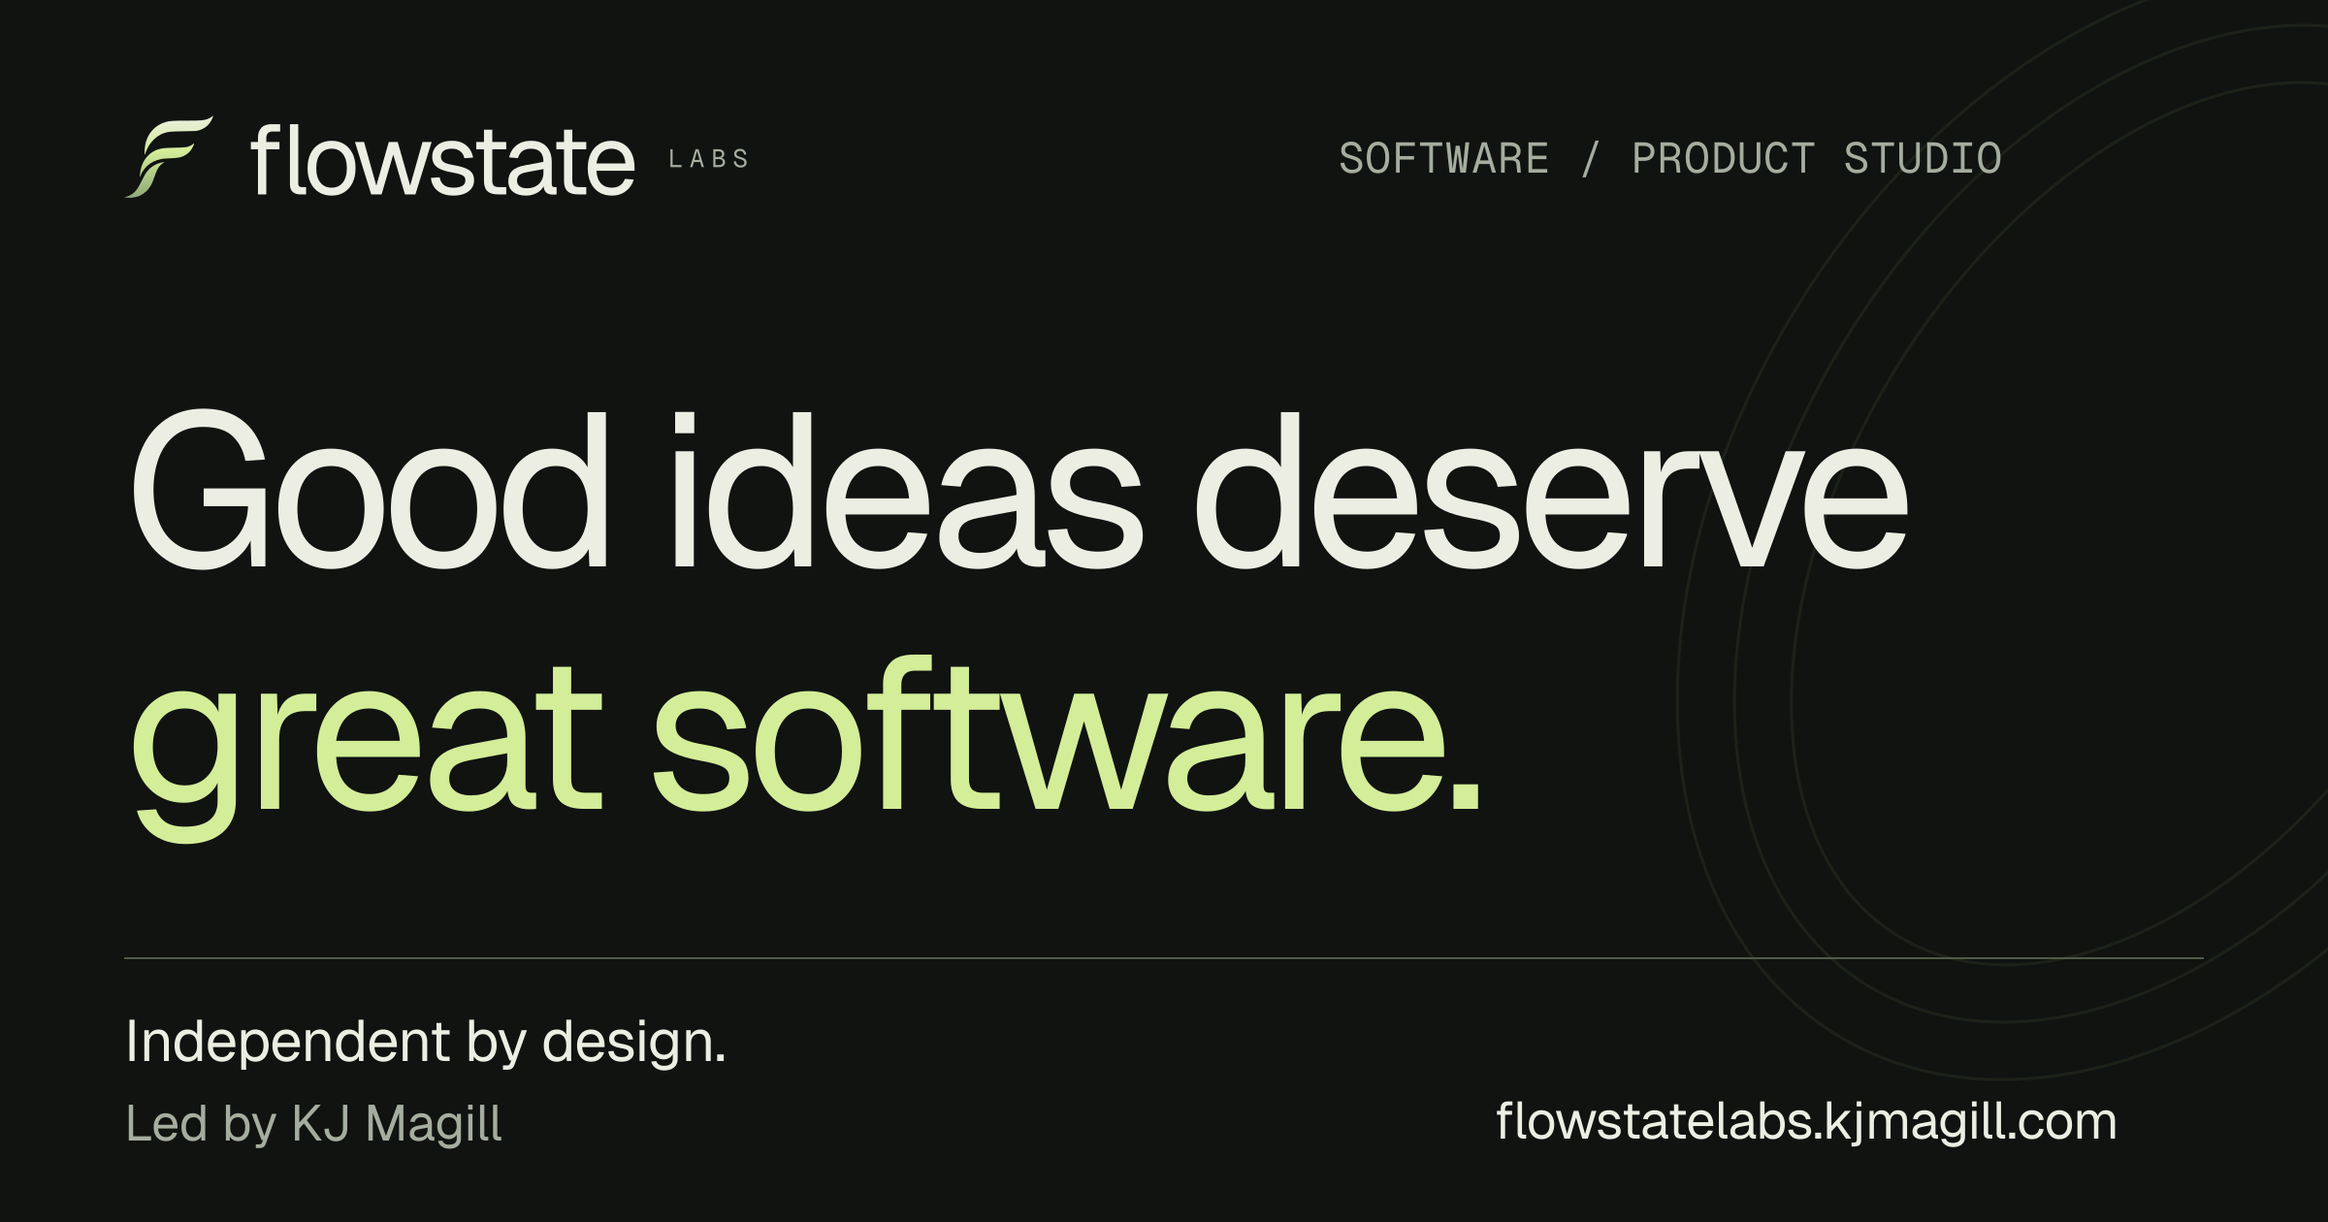
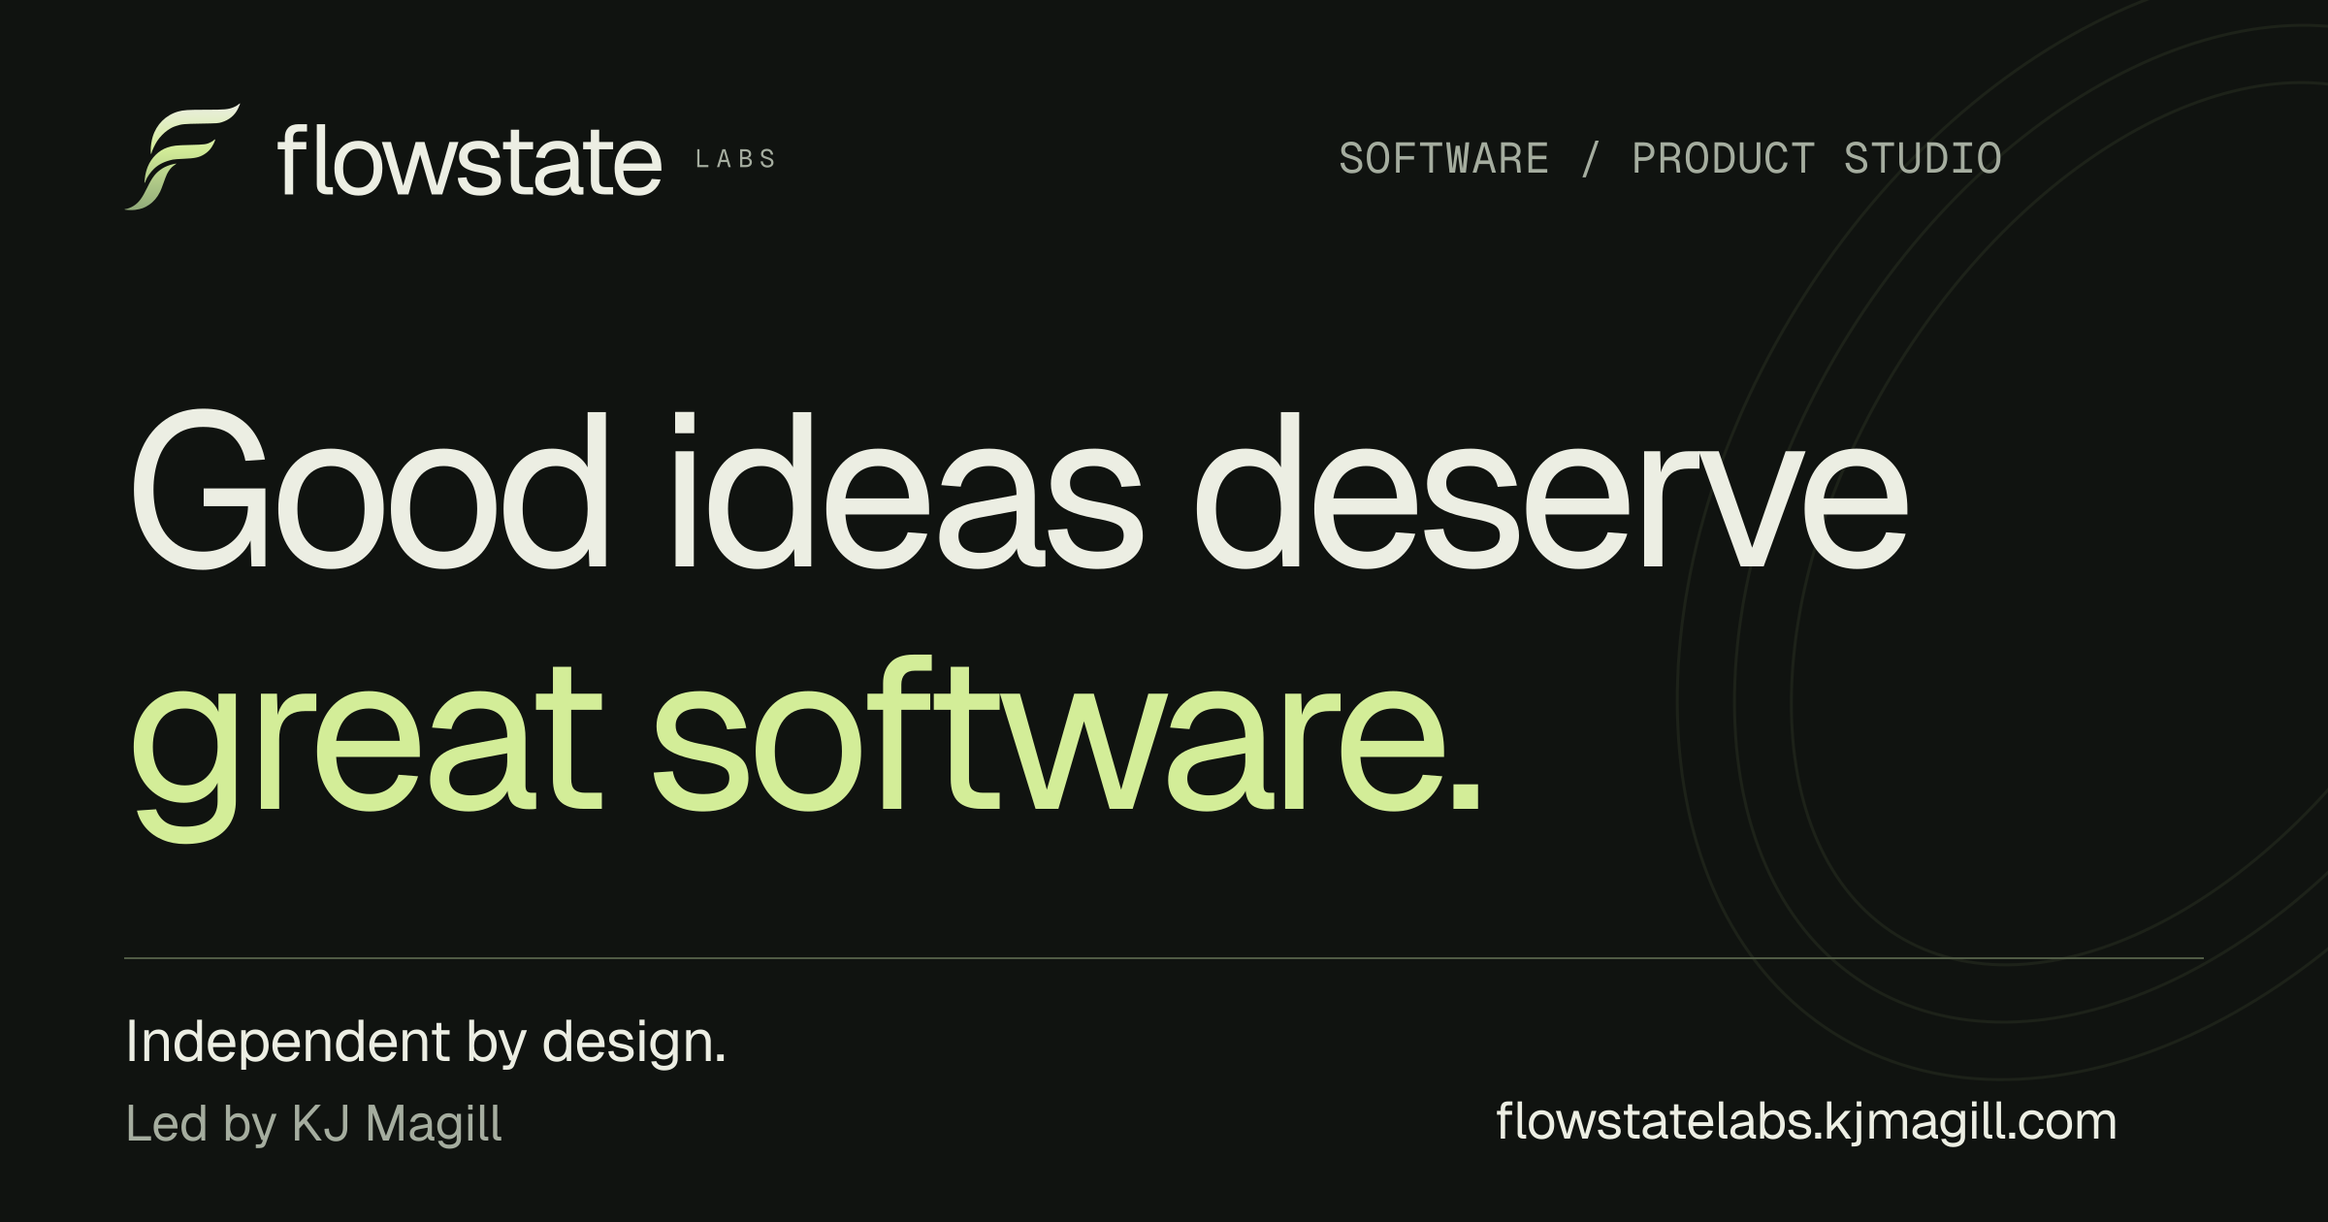
Refine studio readability, responsive layout, copy and branding

Changed region(s): [[0.0625, 0.0929, 0.3438, 0.1857]]

diff --git a/src/app/flowstate/page.tsx b/src/app/flowstate/page.tsx
@@ -21,9 +21,9 @@ export const metadata: Metadata = {
   keywords: ["Flowstate Labs", "custom software development", "product design studio", "web application development", "mobile app development", "New Jersey software studio", "KJ Magill"],
   alternates: { canonical: `${url}/` },
   robots: { index: true, follow: true, googleBot: { index: true, follow: true, "max-image-preview": "large", "max-snippet": -1, "max-video-preview": -1 } },
-  openGraph: { title, description, url: `${url}/`, siteName: "Flowstate Labs", locale: "en_US", type: "website", images: [{ url: `${url}/flowstate/og-flowstate-v6.jpg`, width: 1200, height: 630, type: "image/jpeg", alt: imageAlt }] },
-  twitter: { card: "summary_large_image", creator: "@kjmagill", title, description, images: [{ url: `${url}/flowstate/social-flowstate-v6.jpg`, width: 1200, height: 600, alt: imageAlt }] },
-  icons: { icon: [{ url: "/flowstate/mark-v6.svg", type: "image/svg+xml" }], apple: [{ url: "/flowstate/apple-icon-v6.png", sizes: "180x180" }] },
+  openGraph: { title, description, url: `${url}/`, siteName: "Flowstate Labs", locale: "en_US", type: "website", images: [{ url: `${url}/flowstate/og-flowstate-v7.jpg`, width: 1200, height: 630, type: "image/jpeg", alt: imageAlt }] },
+  twitter: { card: "summary_large_image", creator: "@kjmagill", title, description, images: [{ url: `${url}/flowstate/social-flowstate-v7.jpg`, width: 1200, height: 600, alt: imageAlt }] },
+  icons: { icon: [{ url: "/flowstate/mark-v7.svg", type: "image/svg+xml" }, { url: "/flowstate/favicon-48-v7.png", sizes: "48x48", type: "image/png" }], apple: [{ url: "/flowstate/apple-icon-v7.png", sizes: "180x180" }] },
   manifest: "/flowstate/site.webmanifest",
 };
 export const viewport: Viewport = { themeColor: "#101310", colorScheme: "dark" };
@@ -39,7 +39,7 @@ export default function FlowstatePage() {
       <section className={styles.hero} aria-labelledby="flow-title">
         <div className={styles.heroIntro}><p className={styles.eyebrow}><span className={styles.statusDot} />Independent software &amp; product studio</p>
           <h1 id="flow-title">Good ideas deserve<br /><em>great software.</em></h1>
-          <p className={styles.heroCopy}>Good software starts with a clear head.<br className={styles.desktopBreak} /> We turn complex ideas into thoughtful digital products, with the focus to get the details right.</p>
+          <p className={styles.heroCopy}>From first sketch to launch, we bring product strategy, design, and engineering together to turn your ideas into useful digital products.</p>
           <a className={styles.primaryLink} href="#connect">Bring us your idea <ArrowUpRight size={18} aria-hidden="true" /></a>
         </div>
         <FlowField />
@@ -83,8 +83,8 @@ export default function FlowstatePage() {
           {[{ n: "01", title: "Get to the heart of it.", text: "We start with the problem, the people, and the business behind the idea. Together, we define what success looks like and choose a focused first step." }, { n: "02", title: "Make the idea tangible.", text: "Flows and prototypes bring the important decisions into view early. We test the direction together before committing to the full build." }, { n: "03", title: "Build. Refine. Release.", text: "Working software arrives in focused iterations. We make room for feedback, take care of the details, and prepare for a confident launch." }, { n: "04", title: "Follow what you learn.", text: "Launch gives us real feedback. We use it to guide improvements, document the decisions, and make the next phase easier to build." }].map((step, i) => <details key={step.n} name="flow-process" open={i === 0}><summary><span>{step.n}</span><h3>{step.title}</h3><Plus size={20} aria-hidden="true" /></summary><p>{step.text}</p></details>)}
         </div>
       </section>
-      <section id="connect" tabIndex={-1} className={styles.connect} aria-labelledby="connect-title"><div className={styles.connectOrb} aria-hidden="true" /><p className={styles.eyebrow}>Every good thing starts somewhere.</p><h2 id="connect-title">An idea on your mind?<br />Let’s find its <em>flow.</em></h2><p>A rough sketch, a stubborn problem, or a product ready for its next chapter. Bring it into the conversation.</p><a className={styles.primaryLink} href="https://kjmagill.com/contact">Start a conversation <ArrowUpRight size={19} aria-hidden="true" /></a><a className={styles.emailLink} href="mailto:kjmagill@protonmail.com?subject=Flowstate%20Labs%20project">Or send KJ an email <ArrowRight size={14} aria-hidden="true" /></a></section>
+      <section id="connect" tabIndex={-1} className={styles.connect} aria-labelledby="connect-title"><div className={styles.connectOrb} aria-hidden="true" /><p className={styles.eyebrow}>Every good thing starts somewhere.</p><h2 id="connect-title">Have something in mind?<br />Let’s <em>build it together.</em></h2><p>A rough sketch, a stubborn problem, or a product ready for its next chapter. Bring it into the conversation.</p><a className={styles.primaryLink} href="https://kjmagill.com/contact">Start a conversation <ArrowUpRight size={19} aria-hidden="true" /></a><a className={styles.emailLink} href="mailto:kjmagill@protonmail.com?subject=Flowstate%20Labs%20project">Or send KJ an email <ArrowRight size={14} aria-hidden="true" /></a></section>
     </main>
-    <footer className={styles.footer}><a href="#top" className={styles.brand} aria-label="Flowstate Labs, back to top"><FlowLogo /></a><p>Independent by design.<br /><span>New Jersey. Open to everywhere.</span></p><div><a href="https://kjmagill.com">KJ Magill <ArrowUpRight size={14} aria-hidden="true" /></a><span>© {new Date().getFullYear()} Flowstate Labs</span></div></footer>
+    <footer className={styles.footer}><a href="#top" className={styles.brand} aria-label="Flowstate Labs, back to top"><FlowLogo /></a><p>Independent by design.<br /><span>Based in New Jersey.<br />Working with clients worldwide.</span></p><div><a href="https://kjmagill.com">KJ Magill <ArrowUpRight size={14} aria-hidden="true" /></a><span>© {new Date().getFullYear()} Flowstate Labs</span></div></footer>
   </div></MotionProvider>;
 }

diff --git a/src/app/flowstate/flowstate.module.css b/src/app/flowstate/flowstate.module.css
@@ -74,3 +74,103 @@
 @media print{.projectCard{break-inside:avoid;border:1px solid #555}.projectIllustration{display:none}.projectCard h3{min-height:0;margin-bottom:16px}}
 
 @media(max-width:359px){.header .brand svg{width:160px;height:auto}.header .navContact{font-size:11px;gap:6px}}
+
+/* Readability and responsive rhythm. Content never waits for scroll reveals. */
+.brand>svg,.header .brand svg{width:185px;height:34px}
+.studio h1,.studio h2,.services h3{text-wrap:balance}
+.header nav{font-size:15px}
+.eyebrow,.hero .eyebrow,.connect .eyebrow{font-size:12px;letter-spacing:.075em}
+.sectionMeta>span:last-child,.serviceIndex,.processNote,.processSteps summary>span{font-size:12px;color:var(--muted)}
+.serviceTags,.projectMeta{font-size:12px;letter-spacing:.025em}
+.heroFoot{font-size:12px;gap:24px}
+.fieldCaption{font-size:11px;letter-spacing:.025em;color:var(--muted);left:20%;right:12%;bottom:46px}
+.fieldCaption button{font:inherit;font-size:12px;gap:8px}
+.heroCopy{font-size:18px;line-height:1.75;max-width:39ch}
+.primaryLink,.quietLink,.projectAction{font-size:16px}
+.services p,.processIntro,.processSteps details>p,.projectCard>p{font-size:16px;line-height:1.8}
+.services h3{line-height:1.25;min-height:2.5em}
+.projectCard h3{margin-bottom:24px;min-height:2.3em}
+.projectMeta{align-items:flex-start}
+.processSteps summary{min-height:80px}
+.processSteps summary:hover h3{color:var(--accent)}
+.connect>p:not(.eyebrow){max-width:46ch;font-size:17px}
+.emailLink{font-size:15px}
+.footer{gap:32px;align-items:flex-start}
+.footer>p,.footer>div>a{font-size:14px}
+.footer>div{font-size:12px}
+.footer>p>span,.footer>div{color:var(--muted)}
+.primaryLink:hover{transform:none}
+@media(hover:hover) and (prefers-reduced-motion:no-preference){
+  .primaryLink,.quietLink,.emailLink{transition:color .15s,background-color .15s}
+  .projectCard{transition:border-color .15s,background-color .15s}
+}
+@media(min-width:900px) and (max-width:1199px){
+  .hero h1{font-size:clamp(60px,6.3vw,76px);max-width:720px}
+  .field{right:-60px;width:520px;height:500px;top:55px;opacity:.8}
+  .heroCopy{max-width:34ch}
+  .services h3{font-size:24px}
+  .fieldCaption{left:24%;right:12%;bottom:36px}
+}
+@media(min-width:600px) and (max-width:899px){
+  .header nav>a:not(.navContact){display:inline-flex}
+  .header nav{gap:20px;font-size:14px}
+  .hero{padding-top:48px}
+  .heroIntro{max-width:100%}
+  .heroCopy{max-width:48ch}
+  .field{position:relative;right:auto;top:auto;width:100%;height:430px;margin:-20px auto 0;opacity:1}
+  .fieldCaption{display:flex;left:8%;right:8%;bottom:0}
+  .heroFoot{margin-top:24px}
+  .services{grid-template-columns:1fr}
+  .services article,.services article+article{border-left:0;padding:28px 0;display:grid;grid-template-columns:1fr 100px;column-gap:32px}
+  .services article+article{border-top:1px solid var(--line)}
+  .serviceGlyph{grid-column:2;grid-row:1/4;align-self:center;margin:0}
+  .services h3{grid-column:1;min-height:0;margin-top:12px}
+  .services p{grid-column:1;max-width:52ch;margin-top:12px}
+  .serviceTags{grid-column:1/-1;padding-top:18px}
+  .projectCard{padding:24px}
+  .projectCard h3{font-size:28px}
+}
+@media(max-width:599px){
+  .header{display:grid;grid-template-columns:1fr auto;column-gap:12px;row-gap:4px;padding-top:18px;padding-bottom:8px}
+  .header nav{display:contents}
+  .header nav>a:not(.navContact){display:inline-flex;font-size:13px;min-height:44px}
+  .header nav>a:first-child{grid-row:2;grid-column:1}
+  .header nav>a:nth-child(2){grid-row:2;grid-column:2;justify-self:end}
+  .header .navContact{grid-row:1;grid-column:2;font-size:13px;gap:7px;white-space:nowrap}
+  .hero{padding-top:34px}
+  .hero .eyebrow{font-size:11px;gap:8px;letter-spacing:.04em}
+  .hero h1{margin-top:26px}
+  .heroCopy{font-size:17px;line-height:1.75;max-width:36ch}
+  .field{width:calc(100% + 24px);height:340px;margin:8px -12px 0}
+  .fieldCaption{left:12px;right:12px;bottom:0;font-size:10px;gap:8px}
+  .heroFoot{margin-top:24px;font-size:11px;gap:16px;align-items:center}
+  .heroFoot>span{max-width:20ch}
+  .heroFoot>a{gap:8px;flex-shrink:0}
+  .manifesto{padding-block:28px 36px}
+  .services h3{min-height:0;margin-top:12px}
+  .serviceTags{font-size:12px;padding-top:18px}
+  .projectCard h3{min-height:0;margin-top:18px;margin-bottom:20px}
+  .projectCard{padding:22px}
+  .projectMeta{font-size:11px}
+  .projectCard>p{margin-bottom:22px}
+  .processSteps summary{gap:14px}
+  .processSteps details>p{padding-left:0;padding-right:0}
+  .connect{padding:60px 24px}
+  .connect h2{font-size:clamp(34px,8.8vw,50px);margin-top:24px}
+  .connect>p:not(.eyebrow){font-size:16px}
+  .footer{display:grid;grid-template-columns:1fr;gap:20px;padding-block:32px}
+  .footer>.brand{width:fit-content}
+  .footer>div{margin-left:0;align-items:flex-start;font-size:12px}
+  .footer>p{font-size:14px}
+}
+@media(max-width:359px){
+  .header,.hero,.practice,.work,.process,.footer{padding-inline:18px}
+  .header .brand svg{width:174px;height:32px}
+  .header .navContact{font-size:12px;gap:4px}
+  .hero .eyebrow{font-size:10px;letter-spacing:0}
+  .hero h1{font-size:42px}
+  .heroFoot{flex-wrap:wrap;gap:4px}
+  .heroFoot>span{max-width:none}
+}
+@media(prefers-reduced-motion:reduce){.primaryLink:hover,.projectCard:hover .projectAction svg{transform:none}}
+@media(forced-colors:active){.field{display:none}}

diff --git a/src/app/flowstate/flow-field.tsx b/src/app/flowstate/flow-field.tsx
@@ -39,7 +39,6 @@ export function FlowField() {
   useEffect(() => {
     if (paused || !inView || !pageVisible || !linesRef.current) return;
     const reducedMotion = window.matchMedia("(prefers-reduced-motion: reduce)");
-    const staticTablet = window.matchMedia("(min-width: 600px) and (max-width: 899px)");
     const forcedColors = window.matchMedia("(forced-colors: active)");
     const paths = Array.from(linesRef.current.querySelectorAll("path"));
     let frame = 0;
@@ -59,9 +58,9 @@ export function FlowField() {
     function syncMotion() {
       cancelAnimationFrame(frame);
       previous = 0;
-      if (!reducedMotion.matches && !staticTablet.matches && !forcedColors.matches) frame = requestAnimationFrame(tick);
+      if (!reducedMotion.matches && !forcedColors.matches) frame = requestAnimationFrame(tick);
     }
-    const preferences = [reducedMotion, staticTablet, forcedColors];
+    const preferences = [reducedMotion, forcedColors];
     preferences.forEach(query => query.addEventListener("change", syncMotion));
     syncMotion();
     return () => {
@@ -73,12 +72,12 @@ export function FlowField() {
     <svg className={styles.fieldArt} viewBox="0 0 900 900" fill="none" aria-hidden="true">
       <defs>
         <linearGradient id="flow-light" x1="160" y1="130" x2="750" y2="780" gradientUnits="userSpaceOnUse">
-          <stop stopColor="#dce5ad" /><stop offset=".35" stopColor="#a2b88a" /><stop offset=".7" stopColor="#5e796c" /><stop offset="1" stopColor="#222f2a" />
+          <stop stopColor="#dce5ad" /><stop offset=".35" stopColor="#a2b88a" /><stop offset=".7" stopColor="#5e796c" /><stop offset="1" stopColor="#566850" />
         </linearGradient>
         <radialGradient id="flow-glow"><stop stopColor="#b9d28c" stopOpacity=".12" /><stop offset="1" stopColor="#b9d28c" stopOpacity="0" /></radialGradient>
       </defs>
       <circle cx="450" cy="450" r="410" fill="url(#flow-glow)" />
-      <g ref={linesRef} stroke="url(#flow-light)" strokeWidth=".9">
+      <g ref={linesRef} stroke="url(#flow-light)" strokeWidth="1.15">
         {Array.from({ length: LINE_COUNT }, (_, i) => <path key={i} d={flowPath(i, 0)} />)}
       </g>
       <circle cx="450" cy="450" r="354" stroke="#b4c1a0" strokeOpacity=".12" strokeDasharray="2 9" />

diff --git a/src/lib/flowstate.ts b/src/lib/flowstate.ts
@@ -12,8 +12,8 @@ export const flowstateSchema = {
     {
       "@type": "Organization", "@id": `${url}/#organization`,
       name: "Flowstate Labs", url: `${url}/`, description,
-      logo: { "@type": "ImageObject", url: `${url}/flowstate/apple-icon-v6.png`, width: 180, height: 180 },
-      image: `${url}/flowstate/og-flowstate-v6.jpg`,
+      logo: { "@type": "ImageObject", url: `${url}/flowstate/apple-icon-v7.png`, width: 180, height: 180 },
+      image: `${url}/flowstate/og-flowstate-v7.jpg`,
       founder: { "@type": "Person", name: "KJ Magill", url: "https://kjmagill.com" },
       email: "kjmagill@protonmail.com",
       location: { "@type": "Place", name: "New Jersey, United States", address: { "@type": "PostalAddress", addressRegion: "NJ", addressCountry: "US" } },
@@ -26,7 +26,7 @@ export const flowstateSchema = {
     {
       "@type": "WebPage", "@id": `${url}/#webpage`, url: `${url}/`, name: title, description,
       isPartOf: { "@id": `${url}/#website` }, about: { "@id": `${url}/#organization` },
-      inLanguage: "en-US", primaryImageOfPage: { "@type": "ImageObject", url: `${url}/flowstate/og-flowstate-v6.jpg`, width: 1200, height: 630 },
+      inLanguage: "en-US", primaryImageOfPage: { "@type": "ImageObject", url: `${url}/flowstate/og-flowstate-v7.jpg`, width: 1200, height: 630 },
       mainEntity: { "@id": `${url}/#services` },
     },
     {

diff --git a/src/app/flowstate/flow-mark.tsx b/src/app/flowstate/flow-mark.tsx
@@ -1,5 +1,5 @@
 export function FlowLogo() {
-  return <svg width="175" height="27" viewBox="0 0 175 27" aria-hidden="true" focusable="false">
-    <image href="/flowstate/logo-lockup-v6.svg" width="175" height="27" />
+  return <svg width="185" height="34" viewBox="0 0 185 34" aria-hidden="true" focusable="false">
+    <image href="/flowstate/logo-lockup-v7.svg" width="185" height="34" />
   </svg>;
 }

diff --git a/src/app/flowstate/og/route.tsx b/src/app/flowstate/og/route.tsx
@@ -1,4 +1,4 @@
 // Preserve existing shared image URLs while serving the new static artwork.
 export function GET() {
-  return Response.redirect("https://flowstatelabs.kjmagill.com/flowstate/og-flowstate-v6.jpg", 308);
+  return Response.redirect("https://flowstatelabs.kjmagill.com/flowstate/og-flowstate-v7.jpg", 308);
 }

diff --git a/AGENTS.md b/AGENTS.md
@@ -7,3 +7,7 @@ This version has breaking changes — APIs, conventions, and file structure may 
 This block is written and re-added by `next dev` — verify at `node_modules/next/dist/server/lib/generate-agent-files.js`. Removing it from a diff only re-creates the uncommitted change; committing it with your work keeps the tree clean.
 
 <!-- END:nextjs-agent-rules -->
+
+## Motion and content visibility
+
+Keep all content visible immediately. Never gate sections behind scroll-triggered opacity, delayed reveals, or scroll-jacking. Use brief, purposeful interaction feedback, respect reduced-motion preferences, and pause ambient animation offscreen or in hidden tabs. Apply this preference to future UI work in this repository.
